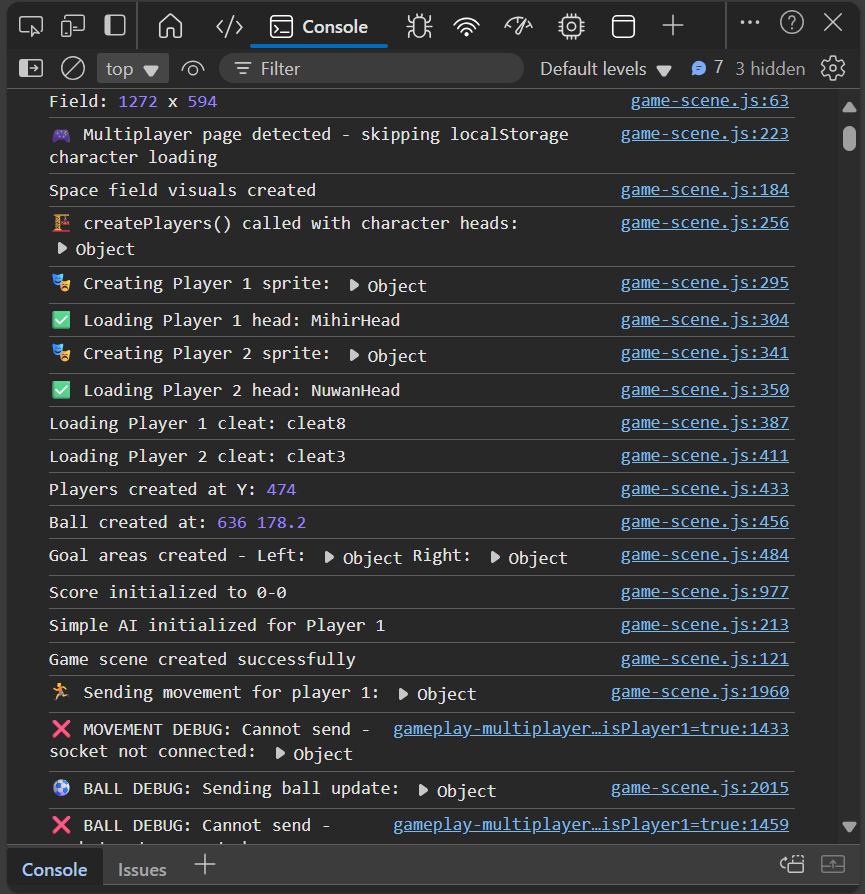
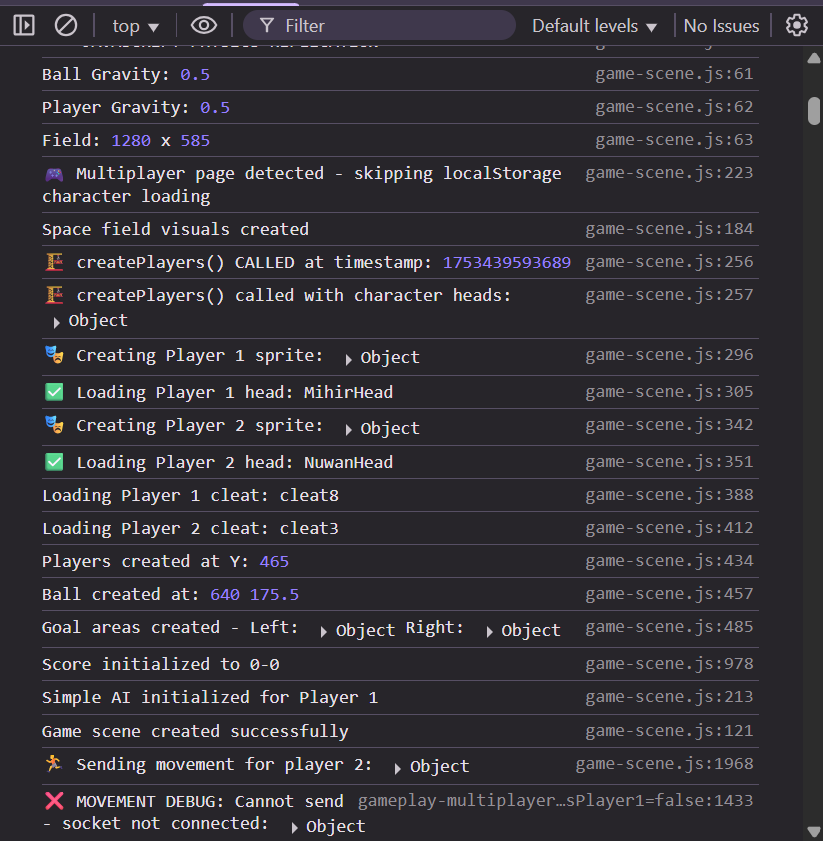
Add loadCharacterSelections() call tracking
Root cause found: setMultiplayerMode correctly sets character heads, but
something between setMultiplayerMode and createPlayers is resetting them.

Added logging to track:
- When loadCharacterSelections() is called
- URL detection for multiplayer page
- Whether multiplayer page detection is working

This will identify if loadCharacterSelections() is being called after
setMultiplayerMode and overriding the character selections.

🤖 Generated with [Claude Code](https://claude.ai/code)

Changed region(s): [[0.0, 0.0, 1.0, 1.0], [0.9721, 0.8966, 1.0, 0.9275]]

diff --git a/head-soccer-js/js/game-scene.js b/head-soccer-js/js/game-scene.js
@@ -214,8 +214,12 @@ class GameScene extends Phaser.Scene {
     }
     
     loadCharacterSelections() {
+        console.log('📋 loadCharacterSelections() CALLED at timestamp:', Date.now());
+        console.log('📋 Current URL:', window.location.href);
+        
         // Check if this is a multiplayer game by looking at the page URL
         const isMultiplayerPage = window.location.href.includes('gameplay-multiplayer.html');
+        console.log('📋 isMultiplayerPage detected:', isMultiplayerPage);
         
         // Skip localStorage loading if this will be a multiplayer game
         // (multiplayer selections will be set via setMultiplayerMode)
